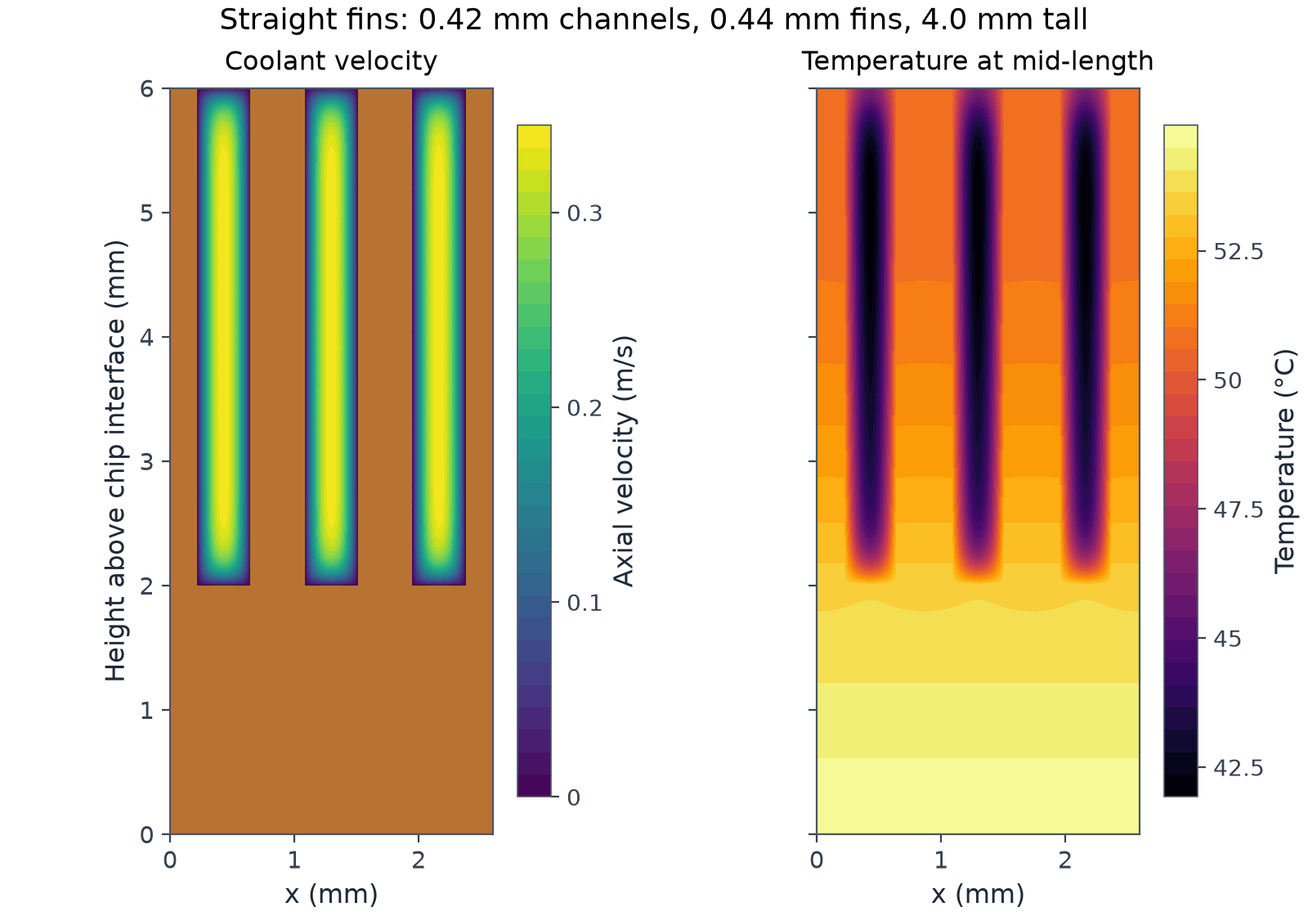
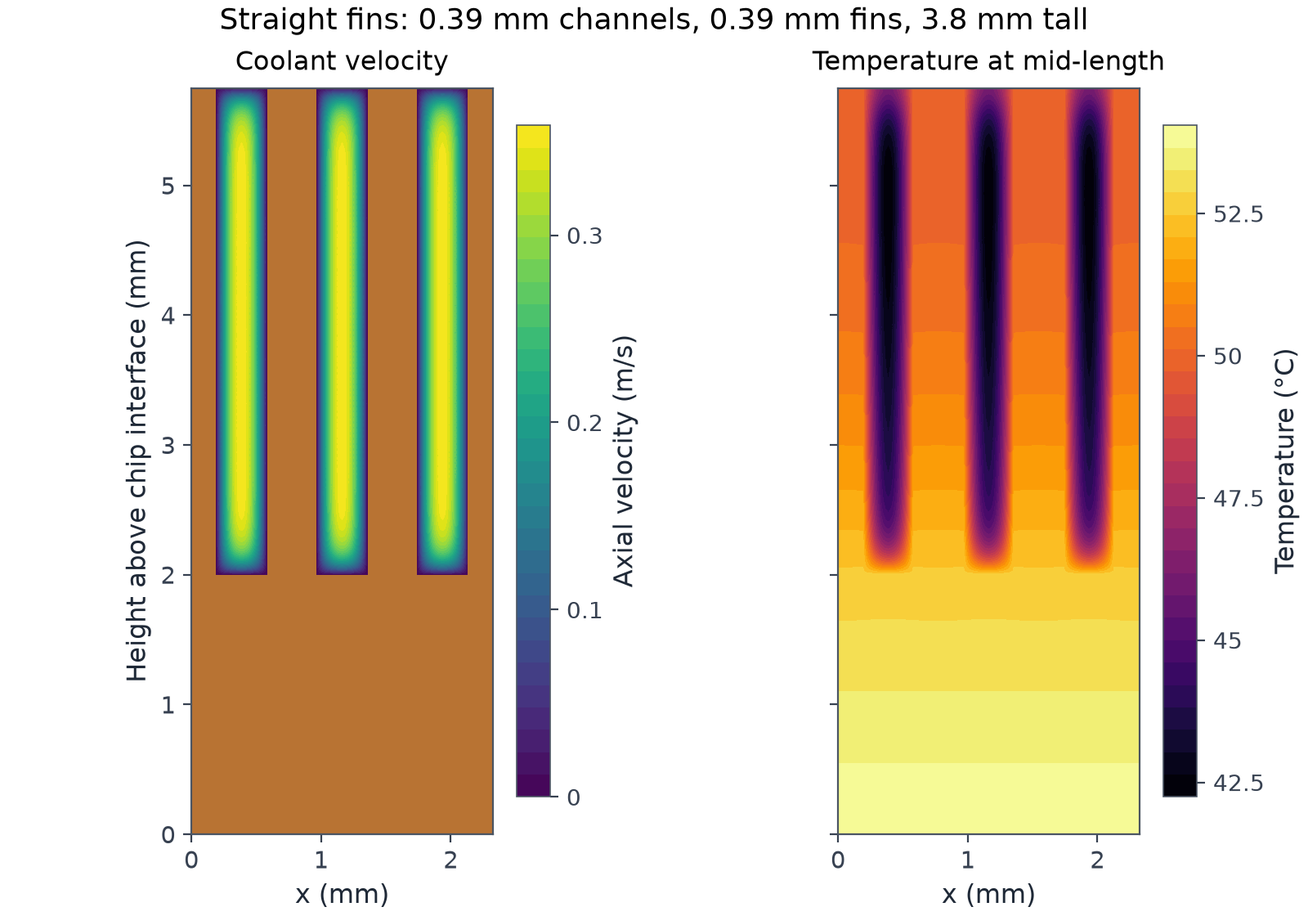
docs: README and case study in line with the Amendment 4 results, entrance and measured-plate paragraphs

diff --git a/docs/index.html b/docs/index.html
@@ -51,10 +51,10 @@ hr { border: 0; border-top: 1px solid var(--rule); width: 100%; margin: 26px 0 0
   <p class="byline">Riccardo Vietri, November 2026. Code and full results: <a href="https://github.com/riccardovietri/thermal-design-loop">github.com/riccardovietri/thermal-design-loop</a></p>
 
   <p>This study picks a fin geometry for a liquid cold plate under a 1 kW chip, and asks how much simulation that choice needs. A 1D thermal-hydraulic model screens straight-fin designs, and conjugate CFD checks the shortlist.</p>
-  <p>Under the same fully developed assumptions, the two models agree closely. That agreement is not yet enough to trust the recommendation. Its margin to the preferred thermal target is small, and an apparent advantage for circular pins needs a more complete model.</p>
+  <p>Under the same fully developed assumptions, the two models agree closely. That agreement is not yet enough to trust the recommendation. It meets the preferred thermal target with a 6.3% margin, but no measured plate has confirmed the model yet, and an apparent advantage for circular pins needs a more complete model.</p>
   <p class="small">How it was built: I set the requirements, made the modelling decisions and reviewed the results. Claude, Anthropic's AI model, wrote most of the code and ran the simulations under that direction. Each solver was checked against a known solution before its results were used.</p>
 
-  <figure><img src="img/l1_pareto.png" alt="Thermal resistance against pressure drop for straight-fin cold plates, with the pressure budget, the must-meet threshold and the objective marked, and the recommended design circled at 14.9 mK/W and 1.29 kPa.">
+  <figure><img src="img/l1_pareto.png" alt="Thermal resistance against pressure drop for straight-fin cold plates, with the pressure budget, the must-meet threshold and the objective marked, and the recommended design circled at 14.0 mK/W and 1.60 kPa.">
     <figcaption>Straight-fin designs at 1.5 LPM. Grey dots are 1D results, blue dots were checked with CFD, and the ring marks the recommended design.</figcaption></figure>
 
   <h2>The requirement</h2>
@@ -71,40 +71,45 @@ hr { border: 0; border-top: 1px solid var(--rule); width: 100%; margin: 26px 0 0
   </table></div>
 
   <h2>Recommended design</h2>
-  <p>Straight copper fins with 0.42 mm channels, 0.44 mm fins, 4.0 mm tall. The CFD gives 14.9 mK/W at 1.29 kPa, which puts the plate base at 54.9 °C on average and 59.9 °C at the outlet end.</p>
-  <p>Of that 14.9 mK/W, about 8.4 is fins and convection, 5.0 is the coolant warming up as it crosses the plate, and 1.4 is conduction through the base. Finer fins only reduce the first part.</p>
+  <p>Straight copper fins with 0.39 mm channels, 0.39 mm fins, 3.75 mm tall. The CFD gives 14.0 mK/W at 1.60 kPa, which puts the plate base at 54.0 °C on average and 59.0 °C at the outlet end.</p>
+  <p>Of that 14.0 mK/W, about 7.5 is fins and convection, 5.0 is the coolant warming up as it crosses the plate, and 1.4 is conduction through the base. Finer fins only reduce the first part.</p>
   <div class="tablewrap"><table>
     <thead><tr><th>Flow</th><th>Pressure drop</th><th>Resistance</th><th>Average base</th><th>Peak base</th></tr></thead>
     <tbody>
-      <tr><td class="n">1.0 LPM</td><td class="n">0.86 kPa</td><td class="n">17.4 mK/W</td><td class="n">57.4 °C</td><td class="n">64.9 °C</td></tr>
-      <tr><td class="n">1.5 LPM</td><td class="n">1.29 kPa</td><td class="n">14.9 mK/W</td><td class="n">54.9 °C</td><td class="n">59.9 °C</td></tr>
-      <tr><td class="n">2.0 LPM</td><td class="n">1.73 kPa</td><td class="n">13.7 mK/W</td><td class="n">53.7 °C</td><td class="n">57.4 °C</td></tr>
+      <tr><td class="n">1.0 LPM</td><td class="n">1.07 kPa</td><td class="n">16.5 mK/W</td><td class="n">56.5 °C</td><td class="n">64.0 °C</td></tr>
+      <tr><td class="n">1.5 LPM</td><td class="n">1.60 kPa</td><td class="n">14.0 mK/W</td><td class="n">54.0 °C</td><td class="n">59.0 °C</td></tr>
+      <tr><td class="n">2.0 LPM</td><td class="n">2.13 kPa</td><td class="n">12.8 mK/W</td><td class="n">52.8 °C</td><td class="n">56.5 °C</td></tr>
     </tbody>
   </table></div>
-  <p>This design meets the objective by 0.5%, and misses it at 1.0 LPM. That margin is smaller than the effects the model leaves out, so the recommendation is provisional until the checks at the end are done.</p>
+  <p>This design meets the objective with a 6.3% margin at rated flow, and misses it at 1.0 LPM. Entrance effects, checked below, lower the resistance rather than raise it. Manifolds, uneven flow between channels and a comparison with a measured plate are still open, so the recommendation is provisional until the checks at the end are done.</p>
 
   <h3>How it was chosen</h3>
   <p>Heat removed per unit of pressure drop is highest for the lowest-pressure design in the acceptable window, so that ratio cannot separate the candidates. The selection walks along the front instead, and keeps going only while each 1% of extra pressure drop buys at least 0.25% lower resistance. The 0.25 cut-off is a judgment call.</p>
   <div class="tablewrap"><table>
-    <thead><tr><th>Design</th><th>Resistance</th><th>Pressure drop</th><th>Return on the next step</th><th></th></tr></thead>
+    <thead><tr><th>Design (channel / fin / height)</th><th>Resistance</th><th>Pressure drop</th><th>Return on the next step</th><th></th></tr></thead>
     <tbody>
-      <tr><td>0.50 mm channels</td><td class="n">17.1 mK/W</td><td class="n">0.86 kPa</td><td class="n">0.33</td><td>Keep going</td></tr>
-      <tr><td>0.42 mm channels</td><td class="n">14.9 mK/W</td><td class="n">1.29 kPa</td><td class="n">0.14</td><td>Stop here</td></tr>
+      <tr><td>0.46 / 0.44 / 4.0 mm</td><td class="n">15.9 mK/W</td><td class="n">1.05 kPa</td><td class="n">0.33</td><td>Keep going</td></tr>
+      <tr><td>0.42 / 0.39 / 3.75 mm</td><td class="n">14.9 mK/W</td><td class="n">1.29 kPa</td><td class="n">0.28</td><td>Keep going</td></tr>
+      <tr><td>0.39 / 0.39 / 3.75 mm</td><td class="n">14.0 mK/W</td><td class="n">1.60 kPa</td><td class="n">0.19</td><td>Stop here</td></tr>
     </tbody>
   </table></div>
+  <p>The table shows the last three steps. Two came before them: the walk starts at 0.55 mm channels (18.5 mK/W at 0.70 kPa), the lowest pressure drop that meets the 20 mK/W limit, and moves through 0.50 mm channels with returns of 0.38 and 0.35. In the last row, 0.19 is the best return to any further design.</p>
+  <p>The cut-off is a judgment call, so the rule was run again for cut-offs from 0.05 to 0.60. For straight fins the pick stays at 1.60 kPa for cut-offs of 0.20 and 0.25 and at 1.29 kPa (0.42 mm channels, 14.9 mK/W) from 0.30 to 0.60. Below 0.20 it moves to 2.64 kPa and then 4.66 kPa. The circular-pin array picked across fin shapes (below) holds only at the chosen 0.25: a cut-off of 0.20 picks a denser pin array and 0.30 a sparser one.</p>
+  <figure><img src="img/l1_local_return.png" alt="Return between neighbouring straight-fin designs against pressure drop. It falls from about 0.7 near 0.2 kPa to between 0.28 and 0.41 from 0.7 to 1.6 kPa, and is mostly below the 0.25 cut-off beyond the recommended design.">
+    <figcaption>Return between neighbouring designs on the straight-fin front. It falls gradually, so there is no sharp knee for the cut-off to find.</figcaption></figure>
 
   <h2>Method</h2>
   <h3>A 1D model to screen the design space</h3>
-  <p>A resistance network evaluates every combination of channel width, fin thickness and fin height, using base conduction, fin efficiency, laminar duct correlations [4] and coolant heating. It covers 672 designs in a few milliseconds, and 258 of them meet the pressure and manufacturing limits.</p>
+  <p>A resistance network evaluates every combination of channel width, fin thickness and fin height, using base conduction, fin efficiency, laminar duct correlations [4] and coolant heating. It covers 4,485 designs in under 20 milliseconds, and 1,783 of them meet the pressure and manufacturing limits.</p>
   <p>An earlier version of this model used circular-tube constants on rectangular channels and had no fin efficiency. Finding that was the first useful result.</p>
 
   <h3>Conjugate CFD on the shortlist</h3>
   <figure><img src="img/l1_fields.png" alt="Coolant velocity and temperature on the cross-section of the recommended design, showing three channels between copper fins above a 2 mm base.">
     <figcaption>Velocity and temperature across three channels of the recommended design. The bottom 2 mm is the copper base, with the chip underneath.</figcaption></figure>
-  <p>The eight designs along the 1D front are solved with a finite-element model of the channel cross-section. Flow in the channel and temperature in the fluid, fin and base are solved together.</p>
+  <p>All 18 designs on the 1D front within the pressure budget are solved with a finite-element model of the channel cross-section. Flow in the channel and temperature in the fluid, fin and base are solved together.</p>
   <figure><img src="img/l1_parity.png" alt="1D thermal resistance plotted against CFD thermal resistance. All points lie within a 5% band around the diagonal.">
-    <figcaption>1D against CFD for the eight designs.</figcaption></figure>
-  <p>For these straight-fin designs the two models agree on thermal resistance to 1.1% on average and 2.9% at worst. Both assume fully developed flow, so this shows the 1D model handles fin and base conduction correctly. It does not show that either model matches hardware.</p>
+    <figcaption>1D against CFD for the 18 designs.</figcaption></figure>
+  <p>For these straight-fin designs the two models agree on thermal resistance to 1.0% on average and 2.9% at worst. Both assume fully developed flow, so this shows the 1D model handles fin and base conduction correctly. It does not show that either model matches hardware.</p>
 
   <h2>Other geometries</h2>
   <p>Straight fins look the same at every point along the flow. Jets and interrupted fins do not, so they are solved with a steady laminar Navier-Stokes and energy model in two dimensions.</p>
@@ -132,9 +137,10 @@ hr { border: 0; border-top: 1px solid var(--rule); width: 100%; margin: 26px 0 0
       <tr><td>Zigzag</td><td>0.4 mm gap, 0.3 mm amplitude</td><td class="n">13.4 mK/W</td><td class="n">1.46 kPa</td></tr>
       <tr><td>Sinusoidal</td><td>0.4 mm gap, 0.3 mm amplitude</td><td class="n">13.6 mK/W</td><td class="n">1.54 kPa</td></tr>
       <tr><td>Diamond pins</td><td>0.4 mm side</td><td class="n">12.3 mK/W</td><td class="n">2.51 kPa</td></tr>
-      <tr><td>Offset strip</td><td>2 mm strips</td><td class="n">18.4 mK/W</td><td class="n">0.50 kPa</td></tr>
+      <tr><td>Offset strip</td><td>1 mm strips, 0.3 mm thick, 3 mm tall</td><td class="n">14.6 mK/W</td><td class="n">1.57 kPa</td></tr>
     </tbody>
   </table></div>
+  <p>For offset strips the walk stops at its first design (18.4 mK/W at 0.50 kPa), which misses the 15 mK/W objective. Other offset-strip designs meet it, so the rule's objective clause continues to the one with the lowest pressure drop.</p>
   <p>For a fair comparison, each front is read against the straight-fin front at the same pressure drop, over the range where both exist:</p>
   <ul>
     <li>Circular pins: 2.6 to 5.8% lower resistance, between 0.8 and 1.9 kPa.</li>
@@ -144,7 +150,7 @@ hr { border: 0; border-top: 1px solid var(--rule); width: 100%; margin: 26px 0 0
   </ul>
   <figure><img src="img/pv_panels.png" alt="Five small panels, one per fin shape, each showing that shape's designs against the straight-fin front in grey.">
     <figcaption>Each shape against straight fins in grey. Faint hollow markers are designs whose fin height is more than ten times the smallest gap, which are excluded.</figcaption></figure>
-  <p>The pin result is not a recommendation. On straight fins, this plan-view model gives resistance 5.7% lower than the cross-section CFD, because it has no floor or cover. A 3 to 6% lead for pins is the same size as that difference. The pin solutions are also steady, with no check yet on whether the wakes would shed. Skiving cuts continuous fins [3], and no documented volume process was found for copper pins at this size.</p>
+  <p>The pin result is not a recommendation. On straight fins, this plan-view model gives resistance 5.6% lower than the cross-section CFD, because it has no floor or cover. A 3 to 6% lead for pins is the same size as that difference. The pin solutions are also steady, with no check yet on whether the wakes would shed. Skiving cuts continuous fins [3], and no documented volume process was found for copper pins at this size.</p>
   <p>The sinusoidal and zigzag fins had higher pressure drop without lower resistance in this model, at Reynolds numbers of about 90 to 150. Published gains for wavy channels are reported at higher Reynolds numbers and attributed to three-dimensional vortices [5, 6], which a plan-view model cannot represent.</p>
 
   <h2>What the checks cover</h2>
@@ -152,19 +158,21 @@ hr { border: 0; border-top: 1px solid var(--rule); width: 100%; margin: 26px 0 0
     <thead><tr><th>Check</th><th>Quantity</th><th>Compared with</th><th>Result</th></tr></thead>
     <tbody>
       <tr><td>Cross-section solver, rectangular ducts at four aspect ratios</td><td>Friction and Nusselt number</td><td>Shah and London reference values [4]</td><td class="n">within 0.007%</td></tr>
-      <tr><td>Cross-section mesh at twice the resolution</td><td>Thermal resistance of the recommended design</td><td>Itself</td><td class="n">0.001% change</td></tr>
+      <tr><td>Cross-section mesh at twice the resolution</td><td>Thermal resistance of the recommended design</td><td>Itself</td><td class="n">0.002% change</td></tr>
       <tr><td>Navier-Stokes solver, developing flow between plates</td><td>Local Nusselt number</td><td>An independent marching solution</td><td class="n">within 0.64%</td></tr>
       <tr><td>Plan-view solver, straight channel</td><td>Friction and Nusselt number</td><td>Analytical solution</td><td class="n">within 0.004%</td></tr>
-      <tr><td>Plan view against cross-section, same straight design</td><td>Resistance and pressure drop</td><td>The cross-section CFD</td><td class="n">5.7% and 7.1% low</td></tr>
+      <tr><td>Plan view against cross-section, same straight design</td><td>Resistance and pressure drop</td><td>The cross-section CFD</td><td class="n">5.6% and 7.1% low</td></tr>
       <tr><td>Energy balance, every Navier-Stokes run</td><td>Heat in against heat carried out</td><td>Conservation</td><td class="n">within 0.75%</td></tr>
     </tbody>
   </table></div>
   <p>These checks show the solvers reproduce known solutions and that the meshes are fine enough. None of them is a comparison with a measured cold plate.</p>
+  <p>Both models assume fully developed flow. To see what that leaves out, the channel of the recommended design was also solved over its full 60 mm from a uniform inlet, in the tall-fin limit (two heated fin walls, no floor or cover). Developing flow raises the length-mean heat transfer coefficient by 5.1% and the channel pressure drop by 1.2%. A 1D entrance correction built from published results [7, 8] matches the resulting changes in resistance and pressure drop to within 3.1% and 2.9%. An earlier version of the correction missed them by 36 to 41% and was rebuilt before these numbers were produced. Applied to the recommended design, the correction lowers the resistance from 14.0 to 13.7 mK/W and raises the pressure drop from 1.60 to 1.62 kPa, so the margin on the objective grows to 8.9%. Across the 18 designs the order by resistance does not change, but the return on the last step of the selection falls from 0.277 to 0.248, just under the cut-off, so the rule applied to the corrected values would stop one step earlier, at 0.42 mm channels.</p>
+  <p>An indicative comparison with a published skived copper plate [2] is recorded on <a href="https://github.com/riccardovietri/thermal-design-loop/issues/11">issue 11</a>. With a base of 2 to 3 mm assumed, the 1D model reads 6 to 16% low on thermal resistance from 1 LPM up. The paper does not publish the base thickness, so this is indicative only and not a validation.</p>
 
   <h2>Next checks</h2>
   <ol>
-    <li><a href="https://github.com/riccardovietri/thermal-design-loop/issues/12">Entrance effects.</a> Both models assume fully developed flow. The open question is how much developing flow and inlet losses move the recommended design, given its 0.5% margin.</li>
-    <li><a href="https://github.com/riccardovietri/thermal-design-loop/issues/11">A measured plate.</a> This needs a published test with complete geometry. The closest one found [2] does not give its width or base thickness.</li>
+    <li><a href="https://github.com/riccardovietri/thermal-design-loop/issues/12">The full three-dimensional duct.</a> The tall-fin check of entrance effects agrees with the 1D correction. What it does not cover is development in the real duct, with its floor, cover and corners, and the losses in the inlet and outlet manifolds.</li>
+    <li><a href="https://github.com/riccardovietri/thermal-design-loop/issues/11">A measured plate.</a> This needs a published test with complete geometry. The closest one found [2] does not publish its base thickness.</li>
     <li><a href="https://github.com/riccardovietri/thermal-design-loop/issues/10">Pins in 3D.</a> A matched 3D comparison of straight fins and circular pins at equal pressure drop, to see whether the pin lead survives the floor and cover.</li>
   </ol>
 
@@ -177,6 +185,8 @@ hr { border: 0; border-top: 1px solid var(--rule); width: 100%; margin: 26px 0 0
     <li>R. K. Shah and A. L. London, Laminar Flow Forced Convection in Ducts, Academic Press, 1978.</li>
     <li>J. Kundu, <a href="https://etd.ohiolink.edu/acprod/odb_etd/ws/send_file/send?accession=ucin998059414&amp;disposition=inline">Numerical Investigation of Laminar Forced Convection in Two-Dimensional and Three-Dimensional Sinusoidal Corrugated Ducts</a>, MS thesis, University of Cincinnati, 2001.</li>
     <li>N. Ghorbani et al., <a href="https://doi.org/10.1038/s41598-022-09859-6">Investigation of wavy microchannel ability on electronic devices cooling</a>, Scientific Reports 12:5882, 2022.</li>
+    <li>Y. S. Muzychka and M. M. Yovanovich, <a href="https://research.library.mun.ca/2486">Laminar flow friction and heat transfer in non-circular ducts and channels, Part II: thermal problem</a>, Compact Heat Exchangers, Grenoble, 2002.</li>
+    <li>B. Ray, F. Durst and S. Ray, <a href="https://arxiv.org/abs/1707.04947">Pressure drop and flow development in the entrance region of micro-channels with second order velocity slip condition and the requirement for development length</a>, arXiv:1707.04947, 2017.</li>
   </ol>
   <p class="small">The assumptions register in the repository lists every external number with its source.</p>
 </article>

diff --git a/PROGRESS.md b/PROGRESS.md
@@ -1,20 +1,20 @@
 # PROGRESS
 
 ## Resume here
-Everything through SPEC Amendment 3 and the readable-figure pass is merged to `main`; the repo is public as `thermal-design-loop`.
-Headline: Level 1 recommends 0.42 / 0.44 / 4.0 mm straight fins (14.93 mK/W at 1.29 kPa, meets the objective); across plan-view
-topologies the rule picks circular pins d 0.4, S_T 0.8, S_L 0.9 mm (12.65 mK/W at 1.42 kPa), 2.6–5.8% below straight fins at equal ΔP,
-inside the plan view's 6% tall-fin bias. No slot-jet case meets the 20 mK/W threshold.
-Next: (1) an industry photo for the write-up (needs a licensed image); (2) turn the preview article into the blog post;
-(3) LinkedIn post; (4) the open questions below.
+SPEC Amendment 4 (#17) is merged; Riccardo accepted the new Level 1 pick. README and the case study (`docs/index.html`, `docs/img/`)
+match the committed results as of `docs/case-study-update`. Headline: Level 1 recommends 0.39 / 0.39 / 3.75 mm straight fins
+(14.05 mK/W at 1.60 kPa, 6.3% margin on the 15 mK/W objective; 4,485 designs screened, 18 solved, 1D vs CFD 1.0% mean, 2.9% max);
+across plan-view topologies the rule picks circular pins d 0.4, S_T 0.8, S_L 0.9 mm (12.65 mK/W at 1.42 kPa), 2.6–5.8% below
+straight fins at equal ΔP, inside the plan view's tall-fin bias. No slot-jet case meets the 20 mK/W threshold.
+Entrance effects (issue #12, pull request #18, open): with the re-anchored correction the pick reads 13.66 mK/W at 1.617 kPa and the
+tall-fin gate passes (+3.1% R_th, −2.9% ΔP); the case study already quotes these numbers, so merge #18 with or before this branch.
+Next: (1) Riccardo's call on the open questions below; (2) issue #10 (3D straight fins against pins), gate values from results.json;
+(3) issue #11 (measured plate); (4) blog post and LinkedIn post from the case study.
 
 ## Open questions for Riccardo
 - Plan view: the pin advantage (2.6–5.8% at equal ΔP) is smaller than the plan view's tall-fin bias measured on straight fins (−5.7% on
   R_th, no floor or cover). Treat it as unconfirmed until a 3D or end-wall check?
 - Pins at Re_d,max 50–136 may shed vortices; steady symmetric solutions were computed. Accept, or add an unsteady check?
-- Level 1 pick changed with the denser grid (Amendment 4): 0.39 / 0.39 / 3.75 mm, 14.05 mK/W at 1.60 kPa (was 0.42 / 0.44 / 4.0 mm,
-  14.93 at 1.29). It holds only for cut-offs 0.20–0.25; at 0.30 and above the pick is 0.42 / 0.39 / 3.75 mm (14.90 at 1.29). Accept
-  the new pick, and update `docs/index.html` (case study) to match?
 - Cross-topology pick (pins 0.8 × 0.9 mm) holds only at a cut-off of exactly 0.25 among the swept values; circular pins win at every
   cut-off. Is the 0.25 cut-off still the right call, given that it now decides which pin array is named?
 - Non-straight planforms have no known volume process at 0.15 mm in copper (ASSUMPTIONS V11). Keep them as a modelling comparison only?
@@ -48,13 +48,19 @@ Next: (1) an industry photo for the write-up (needs a licensed image); (2) turn 
 - 2026-11-15: SPEC Amendment 4 (issue #13): `tools.pareto.recommend_marginal_return_objective` (objective clause, ΔP-ratio guard
   1.10), denser Level 1 study (4,485 designs, all 18 front designs solved, about 5 s), cut-off sensitivity and local-return figures;
   plan view re-selected from saved results (offset strips now 14.58 mK/W at 1.57 kPa via the clause). Details in `docs/build-log.md`.
+- 2026-11-15: README and case study brought in line with Amendment 4 (`docs/case-study-update`): fin-shape comparison as the first
+  README figure, every case-study number and figure from the committed results, cut-off and local-return paragraph, entrance-effect
+  paragraph (numbers from #18), indicative measured-plate comparison (issue #11), work-plan gate for issue #10 reads results.json.
 
 ## Result of the example study
-Rated flow 1.5 LPM, 672 designs screened (258 feasible within 5 kPa), 8 solved. 1D vs CFD on R_th: mean |diff| 1.1%, max 2.9%.
-All confidence checks pass.
-Recommended (`marginal_return`, cut-off 0.25): 0.42 mm channels, 0.44 mm fins, 4.0 mm tall → 14.93 mK/W at 1.29 kPa, meets the
-objective, interface 54.9 °C average. Steps: from 0.50 mm (17.12 mK/W, 0.86 kPa) return 0.331 → 0.42 mm; further returns 0.141 and 0.159 → stop.
-Lowest ΔP meeting the threshold: 0.50 / 0.44 / 4.0 mm → 17.12 mK/W at 0.86 kPa. Lowest R_th in budget: 0.30 / 0.26 / 2.5 mm → 12.58 mK/W at 3.79 kPa.
+Rated flow 1.5 LPM, 4,485 designs screened (1,783 feasible within 5 kPa), all 18 on the 1D front solved. 1D vs CFD on R_th: mean
+|diff| 1.0%, max 2.9%. All confidence checks pass.
+Recommended (`marginal_return`, cut-off 0.25, ΔP-ratio guard 1.10): 0.39 mm channels, 0.39 mm fins, 3.75 mm tall → 14.05 mK/W at
+1.60 kPa, meets the objective (margin 6.3%), interface 54.0 °C average, 59.0 °C peak. Walk: 0.55 / 0.44 / 4.0 (18.47, 0.70 kPa) →
+0.50 (0.378) → 0.46 (0.346) → 0.42 / 0.39 / 3.75 (0.327) → 0.39 / 0.39 / 3.75 (0.277) → stop (best further 0.187).
+Pick holds for cut-offs 0.20–0.25; 0.30–0.60 → 0.42 / 0.39 / 3.75 mm (14.90 mK/W at 1.29 kPa); 0.15 → 2.64 kPa; ≤ 0.10 → 4.66 kPa.
+Flow sensitivity: 1.0 LPM 16.55 mK/W (misses the objective), 2.0 LPM 12.80 mK/W.
+Lowest ΔP meeting the threshold: 0.55 / 0.44 / 4.0 mm → 18.47 mK/W at 0.70 kPa. Lowest R_th in budget: 0.27 / 0.26 / 2.5 mm → 11.92 mK/W at 4.66 kPa.
 Slot jets at 1.5 LPM with ≥ 0.1 mm features: best 23.8 mK/W at 0.49 kPa; none meets the 20 mK/W threshold.
 
 ## Open items

diff --git a/README.md b/README.md
@@ -5,7 +5,9 @@ a conjugate CFD model checks all 18 on the Pareto front, and the output is a rec
 
 **[Read the case study: Choosing a cold plate for a 1 kW chip](https://riccardovietri.github.io/thermal-design-loop/)**
 
-![Thermal resistance vs pressure drop](examples/output/gpu_coldplate/pareto.png)
+![Pareto front of each fin planform at equal flow](examples/output/level2_planview/pareto_topologies.png)
+
+*Thermal resistance against pressure drop for six fin shapes (78 plan-view designs solved, 1.5 LPM); the ring is the design picked across all shapes.*
 
 | | |
 |---|---|
@@ -14,9 +16,6 @@ a conjugate CFD model checks all 18 on the Pareto front, and the output is a rec
 | **Recommended design** | Straight copper fins: 0.39 mm channels, 0.39 mm fins, 3.75 mm tall. 14.0 mK/W at 1.60 kPa |
 | **1D screen vs CFD** | Thermal resistance agrees within 1.0% on average, 2.9% at worst (18 designs) |
 | **Main limitation** | Fully developed 2D flow: no entrance effects, manifolds or flow maldistribution, and no comparison with a measurement yet |
-
-*Grey dots: the 1D screen; blue: designs checked with CFD; ring: the recommendation. Shading marks the 5 kPa budget with the
-20 mK/W threshold (light) and the 15 mK/W objective (darker).*
 
 One command, about five seconds on a laptop, no LLM in the loop:
 
@@ -54,6 +53,11 @@ flowchart LR
 
 ## What it found
 
+![Thermal resistance vs pressure drop](examples/output/gpu_coldplate/pareto.png)
+
+*Straight fins. Grey dots: the 1D screen; blue: designs checked with CFD; ring: the recommendation. Shading marks the 5 kPa budget
+with the 20 mK/W threshold (light) and the 15 mK/W objective (darker).*
+
 | | Channel / fin / height | R_th | ΔP |
 |---|---|---|---|
 | Recommended (marginal return, meets the 15 mK/W objective) | 0.39 / 0.39 / 3.75 mm | 14.0 mK/W | 1.60 kPa |
@@ -69,10 +73,10 @@ per watt of pumping power.
 The cut-off of 0.25 is a judgment, so the report re-runs the rule from 0.05 to 0.60: the pick holds from 0.20 to 0.25; from 0.30 up it
 is the 0.42 mm design at 1.29 kPa, below 0.20 it moves to higher pressure drop. Returns between neighbouring designs fall gradually
 (about 0.7 at 0.2 kPa, 0.28–0.41 from 0.7 to 1.6 kPa, mostly below 0.2 beyond), so there is no sharp knee for the cut-off to find.
-An earlier, coarser grid (672 designs, 8 solved) recommended 0.42 / 0.44 / 4.0 mm (14.9 mK/W at 1.29 kPa): it had no design between
-1.29 and 2.28 kPa, and the denser grid adds one whose return clears the cut-off.
+An earlier, coarser grid stopped at 1.29 kPa because it had no design between 1.29 and 2.28 kPa; the denser grid adds one whose
+return clears the cut-off.
 
-All at the 1.5 LPM rated flow. The recommended design averages 54.0 °C at the chip interface; at 1.0 LPM it rises to 16.6 mK/W
+All at the 1.5 LPM rated flow. The recommended design averages 54.0 °C at the chip interface; at 1.0 LPM it rises to 16.5 mK/W
 (56.5 °C), at 2.0 LPM it falls to 12.8 mK/W (52.8 °C).
 The 1D screen and the CFD agree on thermal resistance to 1.0% on average and 2.9% at worst.
 For straight fins in laminar flow, a correct 1D model is enough; the CFD is the evidence for that statement, not a replacement for it.
@@ -97,12 +101,10 @@ sinusoidal and zigzag channels, offset strip fins and staggered circular and dia
 into the same resistance network as Level 1, at the same 1.5 LPM, footprint and 0.15 mm manufacturing limits, with fin height at most
 10 times the narrowest gap.
 
-![Pareto front of each fin planform at equal flow](examples/output/level2_planview/pareto_topologies.png)
-
-*Each line is one planform's Pareto front over its eligible designs (1.5 LPM PG25 at 40 °C, 1 kW over 60 × 60 mm, copper,
-2 mm base). The ring is the design the rule picks across all planforms. The 36 designs whose fins are taller than 10 × their
-narrowest gap are left out. The plan view has no floor or cover: on straight fins it reads ΔP 7% and R_th 6% below the
-cross-section CFD.*
+The first figure on this page shows each planform's Pareto front over its eligible designs (1.5 LPM PG25 at 40 °C, 1 kW over
+60 × 60 mm, copper, 2 mm base). The ring is the design the rule picks across all planforms. The 36 designs whose fins are taller
+than 10 × their narrowest gap are left out. The plan view has no floor or cover: on straight fins it reads ΔP 7% and R_th 6% below
+the cross-section CFD.
 
 ![Each fin planform against straight fins](examples/output/level2_planview/pareto_topologies_panels.png)
 

diff --git a/docs/work-plan.md b/docs/work-plan.md
@@ -48,7 +48,7 @@ This file says what to do, in what order, and when to stop. The issues hold the 
 **Do not.** Change the default study, the recommendation or the committed Level 1 results.
 
 ## Issue #10: 3D check of straight fins against circular pins
-**Question.** The plan-view model puts circular pins 3–6% below straight fins at equal ΔP. The same model reads 5.7% low on R_th and 7.1% low
+**Question.** The plan-view model puts circular pins 3–6% below straight fins at equal ΔP. The same model reads 5.6% low on R_th and 7.1% low
 on ΔP for straight fins because it has no floor or cover. Does the pin lead survive in 3D?
 
 ### Stage 1: toolchain and validation gate
@@ -57,9 +57,11 @@ on ΔP for straight fins because it has no floor or cover. Does the pin lead sur
 2. Build a 3D model of the **straight-fin** unit cell: one fin pitch wide with symmetry planes, full fin height with the floor, the
    adiabatic cover, the 2 mm base with uniform flux underneath, conjugate conduction in fin and base. Use a streamwise-periodic
    (fully developed) formulation so it is comparable with Level 1; a short developing run is optional.
-3. Run the Level 1 recommended design (0.42 mm channel, 0.44 mm fin, 4.0 mm tall).
+3. Run the Level 1 recommended design, read from the committed `examples/output/gpu_coldplate/results.json` (`recommended`);
+   since SPEC Amendment 4 it is 0.39 mm channel, 0.39 mm fin, 3.75 mm tall (`w0387_t0387_h3750_q150`).
 
-**Gate.** R_th and ΔP within 2% of the Level 1 cross-section CFD (14.93 mK/W, 1.29 kPa), mesh change under 2% at one refinement, energy
+**Gate.** R_th and ΔP within 2% of the Level 1 cross-section CFD for that design, taken from the same `results.json` (currently 14.05 mK/W,
+1.60 kPa), mesh change under 2% at one refinement, energy
 balance within 1%. **If the gate fails, stop and report.** Do not proceed to pins on an unvalidated model.
 
 ### Stage 2: pins
